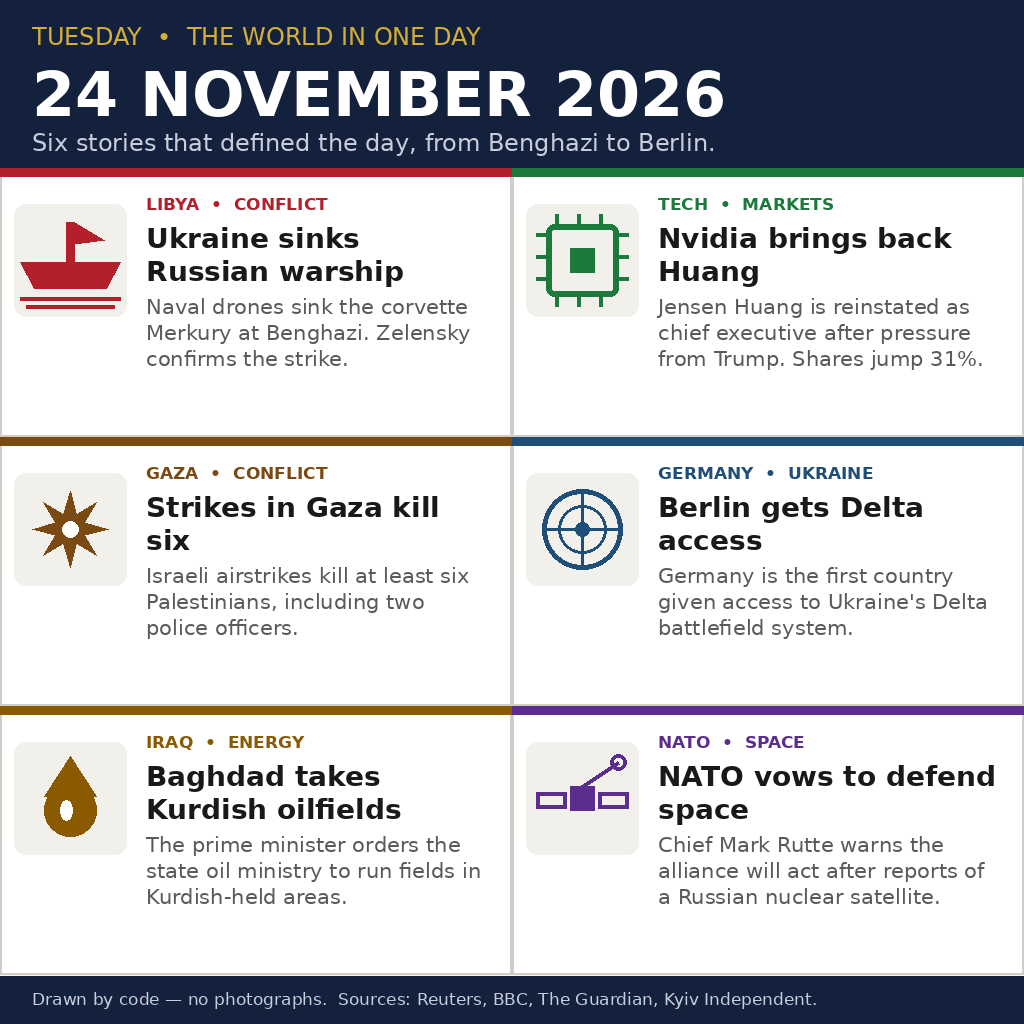
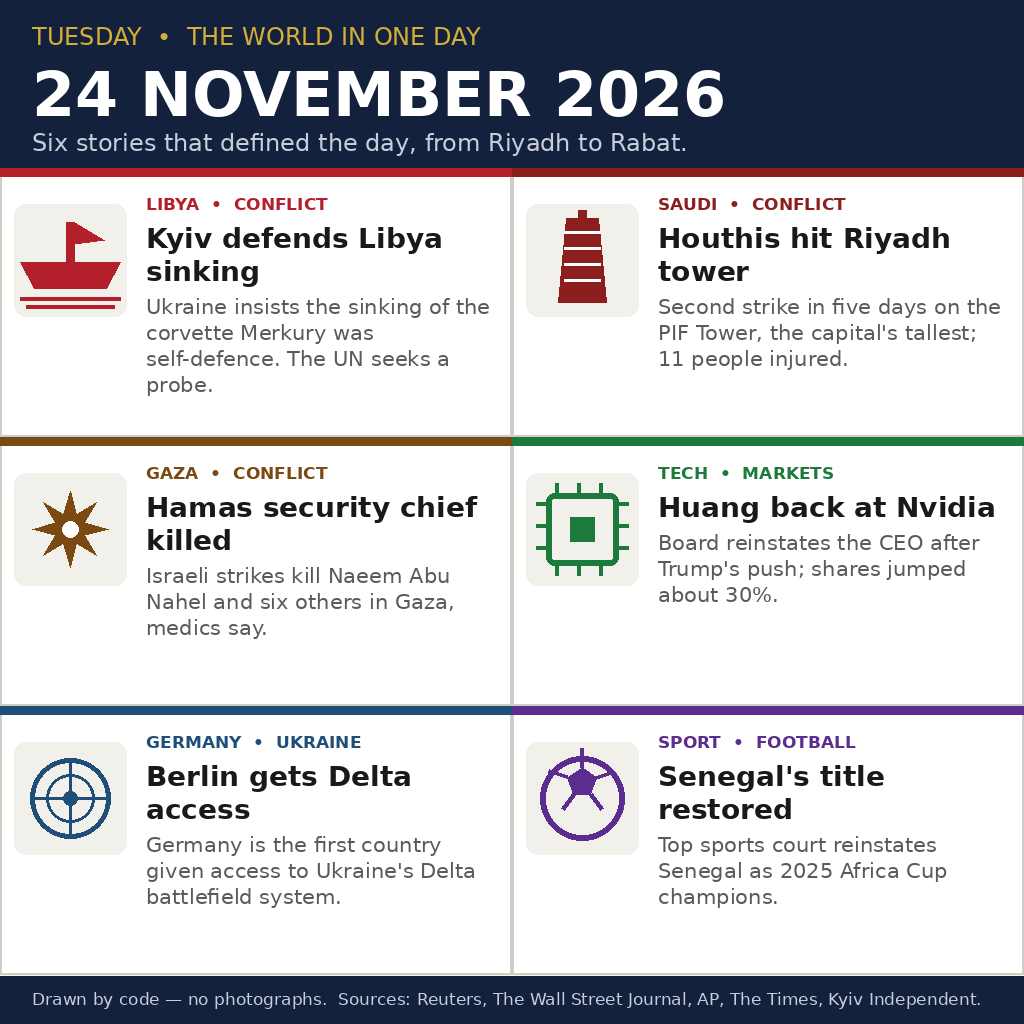
Update image with the full day's news (afternoon)

diff --git a/gen_image.py b/gen_image.py
@@ -34,24 +34,24 @@ F_BODY = font("DejaVuSans.ttf", 21)
 F_FOOT = font("DejaVuSans.ttf", 17)
 
 STORIES = [
-    ("LIBYA  •  CONFLICT", "Ukraine sinks Russian warship",
-     "Naval drones sink the corvette Merkury at Benghazi. Zelensky confirms the strike.",
+    ("LIBYA  •  CONFLICT", "Kyiv defends Libya sinking",
+     "Ukraine insists the sinking of the corvette Merkury was self-defence. The UN seeks a probe.",
      (179, 32, 44), "ship"),
-    ("TECH  •  MARKETS", "Nvidia brings back Huang",
-     "Jensen Huang is reinstated as chief executive after pressure from Trump. Shares jump 31%.",
-     (29, 122, 61), "chip"),
-    ("GAZA  •  CONFLICT", "Strikes in Gaza kill six",
-     "Israeli airstrikes kill at least six Palestinians, including two police officers.",
+    ("SAUDI  •  CONFLICT", "Houthis hit Riyadh tower",
+     "Second strike in five days on the PIF Tower, the capital's tallest; 11 people injured.",
+     (140, 30, 30), "tower"),
+    ("GAZA  •  CONFLICT", "Hamas security chief killed",
+     "Israeli strikes kill Naeem Abu Nahel and six others in Gaza, medics say.",
      (122, 74, 18), "blast"),
+    ("TECH  •  MARKETS", "Huang back at Nvidia",
+     "Board reinstates the CEO after Trump's push; shares jumped about 30%.",
+     (29, 122, 61), "chip"),
     ("GERMANY  •  UKRAINE", "Berlin gets Delta access",
      "Germany is the first country given access to Ukraine's Delta battlefield system.",
      (31, 78, 121), "radar"),
-    ("IRAQ  •  ENERGY", "Baghdad takes Kurdish oilfields",
-     "The prime minister orders the state oil ministry to run fields in Kurdish-held areas.",
-     (138, 90, 0), "drop"),
-    ("NATO  •  SPACE", "NATO vows to defend space",
-     "Chief Mark Rutte warns the alliance will act after reports of a Russian nuclear satellite.",
-     (91, 45, 142), "sat"),
+    ("SPORT  •  FOOTBALL", "Senegal's title restored",
+     "Top sports court reinstates Senegal as 2025 Africa Cup champions.",
+     (91, 45, 142), "ball"),
 ]
 
 
@@ -126,8 +126,34 @@ def icon_sat(d, x, y, s, c):
     d.ellipse([x + s - 22, y + 6, x + s - 6, y + 22], outline=c, width=4)
 
 
+def icon_tower(d, x, y, s, c):
+    d.polygon([(x + 26, y + 92), (x + s - 26, y + 92), (x + s - 34, y + 8),
+               (x + 34, y + 8)], fill=c)
+    d.rectangle([x + s // 2 - 4, y, x + s // 2 + 4, y + 10], fill=c)
+    for r in range(4):
+        wy = y + 22 + r * 16
+        d.line([(x + 32, wy), (x + s - 32, wy)], fill=WHITE, width=3)
+
+
+def icon_ball(d, x, y, s, c):
+    cx, cy = x + s // 2, y + s // 2
+    d.ellipse([x + 8, y + 8, x + s - 8, y + s - 8], outline=c, width=6)
+    px, py = cx, cy - 16
+    pts = []
+    import math
+    for i in range(5):
+        a = -math.pi / 2 + 2 * math.pi * i / 5
+        pts.append((px + 15 * math.cos(a), py + 15 * math.sin(a)))
+    d.polygon(pts, fill=c)
+    for i in range(5):
+        a = -math.pi / 2 + 2 * math.pi * i / 5
+        d.line([(px + 15 * math.cos(a), py + 15 * math.sin(a)),
+                (px + 34 * math.cos(a), py + 34 * math.sin(a))], fill=c, width=4)
+
+
 ICONS = {"ship": icon_ship, "chip": icon_chip, "blast": icon_blast,
-         "radar": icon_radar, "drop": icon_drop, "sat": icon_sat}
+         "radar": icon_radar, "drop": icon_drop, "sat": icon_sat,
+         "tower": icon_tower, "ball": icon_ball}
 
 
 def main():
@@ -138,7 +164,7 @@ def main():
     d.rectangle([0, 0, W, 168], fill=NAVY)
     d.text((32, 22), "TUESDAY  •  THE WORLD IN ONE DAY", font=F_SUB, fill=GOLD)
     d.text((32, 58), "24 NOVEMBER 2026", font=F_TITLE, fill=WHITE)
-    d.text((32, 128), "Six stories that defined the day, from Benghazi to Berlin.",
+    d.text((32, 128), "Six stories that defined the day, from Riyadh to Rabat.",
            font=F_SUB, fill=(200, 205, 220))
 
     # Story grid: 2 columns x 3 rows.
@@ -167,7 +193,7 @@ def main():
 
     # Footer band.
     d.rectangle([0, H - footer_h, W, H], fill=NAVY)
-    d.text((32, H - 35), "Drawn by code — no photographs.  Sources: Reuters, BBC, The Guardian, Kyiv Independent.",
+    d.text((32, H - 35), "Drawn by code — no photographs.  Sources: Reuters, The Wall Street Journal, AP, The Times, Kyiv Independent.",
            font=F_FOOT, fill=(200, 205, 220))
 
     img.save(OUT, "PNG", optimize=True)

diff --git a/README.md b/README.md
@@ -4,7 +4,7 @@
 [![rank](https://make.fun/badge/news-image-20261124/zhaojiaboyi/makefun-news-image-20261124/rank.svg)](https://make.fun/bounty/news-image-20261124/leaderboard?utm_source=github&utm_medium=readme&utm_campaign=news-image-20261124)
 [![reward](https://make.fun/badge/news-image-20261124/zhaojiaboyi/makefun-news-image-20261124/reward.svg)](https://make.fun/bounty/news-image-20261124?utm_source=github&utm_medium=readme&utm_campaign=news-image-20261124)
 
-A program that writes one image summing up the world's news of Tuesday 24 November 2026 — six stories, from Benghazi to Berlin, drawn by code with Pillow. Run main.py and it copies entry.png to the output directory.
+A program that writes one image summing up the world's news of Tuesday 24 November 2026 — six stories, from Riyadh to Rabat, drawn by code with Pillow. Run main.py and it copies entry.png to the output directory.
 
 ## Run it
 
